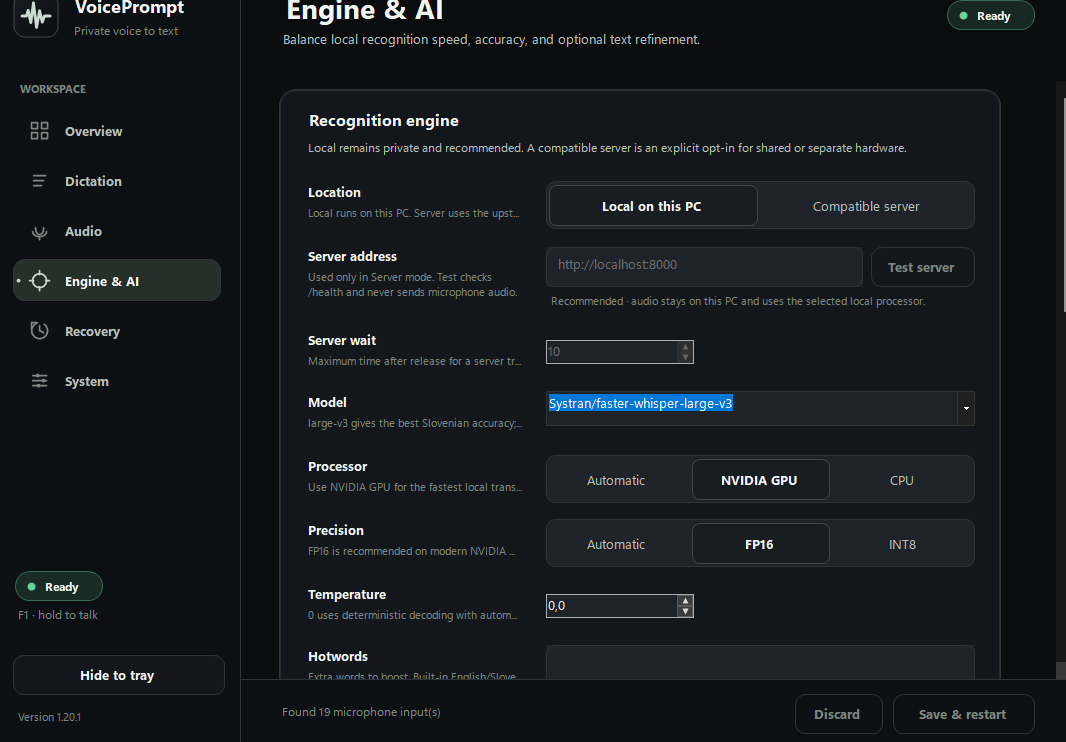
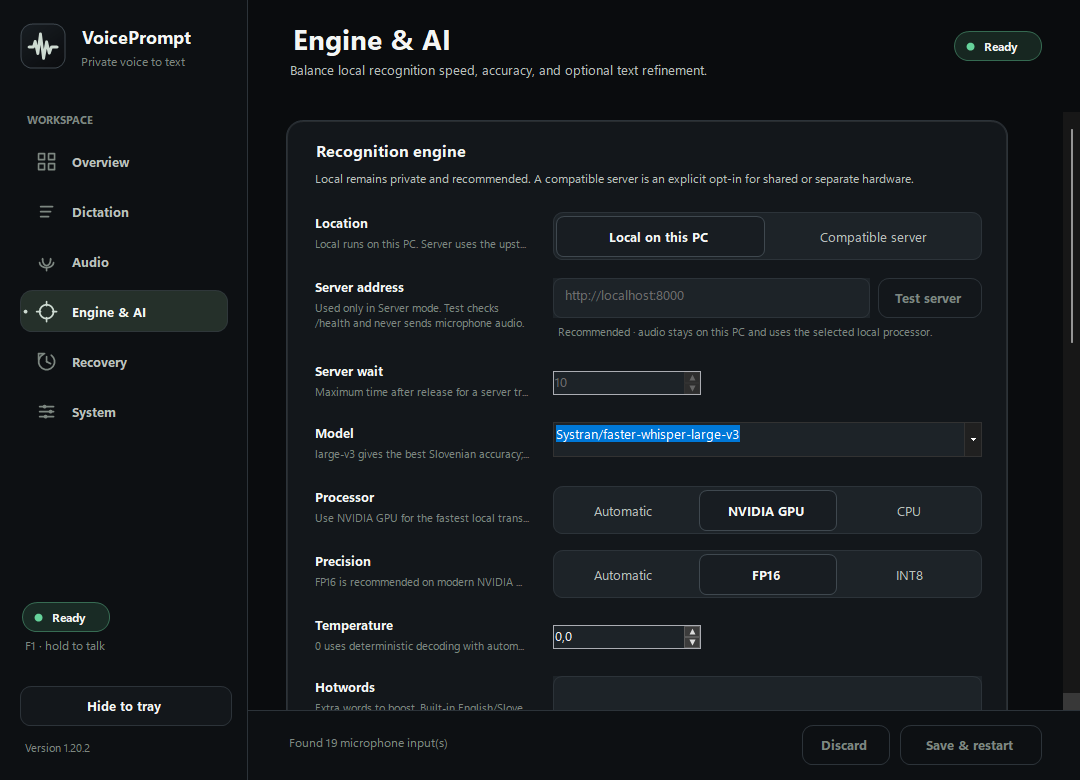
fix(auto): recover short English routing
Combine bilingual language probabilities with decoder and recent-language evidence for ambiguous short clips without adding work to normal speech.

Refresh the compact overlay, release metadata, and Pages screenshots.

diff --git a/docs/index.html b/docs/index.html
@@ -24,7 +24,7 @@
     "applicationCategory": "UtilitiesApplication",
     "operatingSystem": "Windows 11",
     "description": "Private, GPU-accelerated voice-to-text dictation for Windows with 100 supported Whisper languages.",
-    "downloadUrl": "https://senkokg.github.io/VoicePrompt/downloads/VoicePrompt-v1.20.1-windows-x64.zip",
+    "downloadUrl": "https://senkokg.github.io/VoicePrompt/downloads/VoicePrompt-v1.20.2-windows-x64.zip",
     "softwareRequirements": "Windows 11, Python 3.11 or newer, NVIDIA GPU",
     "featureList": "100 Whisper languages, English and Slovenian Auto, global push-to-talk hotkeys, long-recording buffering, local transcript recovery, reusable snippets, application profiles, optional AI text cleanup",
     "license": "https://opensource.org/license/mit"
@@ -51,7 +51,7 @@
         <a href="#features">Features</a>
         <a href="#privacy">Privacy</a>
         <a href="https://github.com/seNkoKG/VoicePrompt" target="_blank" rel="noreferrer">GitHub <span aria-hidden="true">↗</span></a>
-        <a class="button button-small button-light" href="downloads/VoicePrompt-v1.20.1-windows-x64.zip" download>Download</a>
+        <a class="button button-small button-light" href="downloads/VoicePrompt-v1.20.2-windows-x64.zip" download>Download</a>
       </div>
     </nav>
   </header>
@@ -63,7 +63,7 @@
         <h1>Speak naturally.<br><span>Type anywhere.</span></h1>
         <p class="hero-lede">Hold one key, say what you mean, and release. VoicePrompt recognizes any of Whisper's 100 languages and puts the result inside the app you are already using.</p>
         <div class="hero-actions">
-          <a class="button button-primary" href="downloads/VoicePrompt-v1.20.1-windows-x64.zip" download>
+          <a class="button button-primary" href="downloads/VoicePrompt-v1.20.2-windows-x64.zip" download>
             <svg aria-hidden="true" viewBox="0 0 20 20"><path d="M10 2v10m0 0 4-4m-4 4L6 8M3 15.5h14"/></svg>
             Download for Windows
           </a>
@@ -82,11 +82,11 @@
             <span class="window-actions"><i>—</i><i>□</i><i>×</i></span>
           </div>
           <div class="window-canvas">
-            <img src="assets/app-overview.png" alt="VoicePrompt Overview showing runtime status, hotkey, language, microphone, and recognition setup" width="1066" height="742">
+            <img src="assets/app-overview.png" alt="VoicePrompt Overview showing runtime status, hotkey, language, microphone, and recognition setup" width="1080" height="780">
           </div>
         </div>
         <div class="recording-preview">
-          <img src="assets/recording-overlay.png" alt="The actual compact VoicePrompt microphone and waveform overlay" width="184" height="44">
+          <img src="assets/recording-overlay.png" alt="The actual compact VoicePrompt microphone and waveform overlay" width="176" height="44">
           <span>Actual hotkey overlay</span>
         </div>
       </div>
@@ -215,7 +215,7 @@
               <span class="window-title"><img src="assets/mark.svg" alt="" width="18" height="18"> VoicePrompt</span>
               <span class="window-actions"><i>—</i><i>□</i><i>×</i></span>
             </div>
-            <img src="assets/app-overview.png" alt="VoicePrompt Overview with readiness and setup cards" width="1066" height="742" data-interface-image>
+            <img src="assets/app-overview.png" alt="VoicePrompt Overview with readiness and setup cards" width="1080" height="780" data-interface-image>
           </div>
         </div>
         <div class="interface-caption" aria-live="polite">
@@ -294,7 +294,7 @@
       <h2>Your next sentence is faster out loud.</h2>
       <p>Download VoicePrompt, choose from 100 languages, and keep your hands on the work that matters.</p>
       <div class="hero-actions centered">
-        <a class="button button-primary" href="downloads/VoicePrompt-v1.20.1-windows-x64.zip" download>Download latest release</a>
+        <a class="button button-primary" href="downloads/VoicePrompt-v1.20.2-windows-x64.zip" download>Download latest release</a>
         <a class="button button-ghost" href="https://github.com/seNkoKG/VoicePrompt">Star on GitHub <span aria-hidden="true">↗</span></a>
       </div>
     </section>
@@ -307,7 +307,7 @@
         <p>Local-first voice typing in 100 languages.</p>
       </div>
       <div class="footer-links">
-        <a href="downloads/VoicePrompt-v1.20.1-windows-x64.zip" download>Download</a>
+        <a href="downloads/VoicePrompt-v1.20.2-windows-x64.zip" download>Download</a>
         <a href="https://github.com/seNkoKG/VoicePrompt">Source</a>
         <a href="https://github.com/seNkoKG/VoicePrompt/issues">Issues</a>
         <a href="https://github.com/seNkoKG/VoicePrompt/blob/main/README.md">Documentation</a>

diff --git a/scripts/slang_retry.py b/scripts/slang_retry.py
@@ -9,6 +9,13 @@ from typing import Any
 
 _UNSUPPORTED_LANGUAGE_MAX_LOSS = 0.05
 _RECENT_LANGUAGE_SWITCH_RATIO = 1.5
+_SUPPORTED_RETRY_MAX_SECONDS = 5.0
+_SUPPORTED_RETRY_MAX_CONFIDENCE = 0.70
+_SUPPORTED_RETRY_RATIO = 0.60
+_RECENT_SUPPORTED_RETRY_RATIO = 0.45
+_LANGUAGE_EVIDENCE_WEIGHT = 0.35
+_RECENT_LANGUAGE_BONUS = 0.08
+_SUPPORTED_RETRY_MIN_GAIN = 0.02
 _AUTO_MODES = {"", "auto", "sl-slang"}
 _SUPPORTED_LANGUAGES = {"en", "sl"}
 
@@ -44,17 +51,32 @@ def bilingual_retry_language(
     primary_score: float = float("-inf"),
     language_probabilities: Iterable[tuple[str, float]] | None = None,
     recent_language: str | None = None,
+    audio_seconds: float = float("inf"),
 ) -> str | None:
     """Choose an English/Slovenian retry for ambiguous Auto-mode speech."""
     if configured not in _AUTO_MODES:
         return None
+
+    probabilities = dict(language_probabilities or ())
     if detected in _SUPPORTED_LANGUAGES:
+        if audio_seconds > _SUPPORTED_RETRY_MAX_SECONDS:
+            return None
+        detected_probability = probabilities.get(detected, confidence)
+        if detected_probability >= _SUPPORTED_RETRY_MAX_CONFIDENCE:
+            return None
+        other_language = "sl" if detected == "en" else "en"
+        other_probability = probabilities.get(other_language, 0.0)
+        ratio = (
+            _RECENT_SUPPORTED_RETRY_RATIO
+            if recent_language == other_language
+            else _SUPPORTED_RETRY_RATIO
+        )
+        if detected_probability > 0 and other_probability >= detected_probability * ratio:
+            return other_language
         return None
 
-    # VoicePrompt Auto is intentionally bilingual. This mirrors established
-    # dictation apps that constrain automatic detection to the languages the
-    # user actually speaks instead of accepting an unrelated 99-language guess.
-    probabilities = dict(language_probabilities or ())
+    # VoicePrompt Auto is intentionally bilingual. Constrain unrelated
+    # 100-language guesses to the two languages selected by the default profile.
     if recent_language in _SUPPORTED_LANGUAGES:
         other_language = "sl" if recent_language == "en" else "en"
         recent_probability = probabilities.get(recent_language, 0.0)
@@ -153,14 +175,33 @@ def prefer_bilingual_retry(
     detected: str,
     original_segments: Iterable[Any],
     retry_segments: Iterable[Any],
+    language_probabilities: Iterable[tuple[str, float]] | None = None,
+    recent_language: str | None = None,
 ) -> bool:
-    """Choose a supported-language retry for an unrelated Auto guess."""
+    """Choose the bilingual candidate with the stronger combined evidence."""
     original_score = transcript_score(original_segments)
     retry_score = transcript_score(retry_segments)
     if not math.isfinite(retry_score):
         return False
     if detected in _SUPPORTED_LANGUAGES:
-        return False
+        if retry_language not in _SUPPORTED_LANGUAGES or retry_language == detected:
+            return False
+        probabilities = dict(language_probabilities or ())
+        detected_probability = probabilities.get(detected, 0.0)
+        retry_probability = probabilities.get(retry_language, 0.0)
+        if detected_probability <= 0 or retry_probability <= 0:
+            return False
+        if not math.isfinite(original_score):
+            return True
+        original_evidence = original_score + _LANGUAGE_EVIDENCE_WEIGHT * math.log(
+            detected_probability
+        )
+        retry_evidence = retry_score + _LANGUAGE_EVIDENCE_WEIGHT * math.log(
+            retry_probability
+        )
+        if recent_language == retry_language:
+            retry_evidence += _RECENT_LANGUAGE_BONUS
+        return retry_evidence >= original_evidence + _SUPPORTED_RETRY_MIN_GAIN
     if not math.isfinite(original_score):
         return True
     return retry_score >= original_score - _UNSUPPORTED_LANGUAGE_MAX_LOSS

diff --git a/tests/test_slang_retry.py b/tests/test_slang_retry.py
@@ -42,13 +42,44 @@ class SlangRetryTests(unittest.TestCase):
         self.assertFalse(should_retry_as_slovenian("", "sl", 0.20, -0.90))
         self.assertIsNone(bilingual_retry_language("", "sl", 0.75, -0.90))
 
-    def test_supported_language_never_retries_as_the_other_language(self) -> None:
-        for detected in ("en", "sl"):
-            with self.subTest(detected=detected):
-                self.assertIsNone(
-                    bilingual_retry_language("auto", detected, 0.01, -1.50)
-                )
+    def test_ambiguous_short_supported_language_tests_the_other_candidate(self) -> None:
+        probabilities = [("sl", 0.48), ("en", 0.34)]
+        self.assertEqual(
+            bilingual_retry_language(
+                "auto", "sl", 0.48, -0.55, probabilities, "en", 2.9
+            ),
+            "en",
+        )
+        self.assertEqual(
+            bilingual_retry_language(
+                "auto", "en", 0.48, -0.55,
+                [("en", 0.48), ("sl", 0.34)], "sl", 2.9,
+            ),
+            "sl",
+        )
+
+    def test_clear_or_long_supported_language_stays_single_pass(self) -> None:
+        probabilities = [("sl", 0.82), ("en", 0.12)]
+        self.assertIsNone(
+            bilingual_retry_language(
+                "auto", "sl", 0.82, -0.4, probabilities, "en", 2.9
+            )
+        )
+        self.assertIsNone(
+            bilingual_retry_language(
+                "auto", "sl", 0.48, -0.4,
+                [("sl", 0.48), ("en", 0.34)], "en", 8.0,
+            )
+        )
         self.assertFalse(should_retry_as_slovenian("", "en", 0.01, -1.50))
+
+    def test_short_slovenian_with_clear_pairwise_evidence_does_not_retry(self) -> None:
+        self.assertIsNone(
+            bilingual_retry_language(
+                "auto", "sl", 0.36, -0.66,
+                [("sl", 0.36), ("en", 0.10)], "en", 4.2,
+            )
+        )
 
     def test_auto_primary_pass_stays_language_neutral(self) -> None:
         prompt = recognition_prompt("", "Python in API.")
@@ -135,6 +166,34 @@ class SlangRetryTests(unittest.TestCase):
         translated = [Segment("Prosim, popravite to.", -0.66, [1, 2, 3, 4])]
         english = [Segment("Please fix this.", -0.40, [1, 2, 3, 4])]
         self.assertFalse(prefer_bilingual_retry("en", "sl", translated, english))
+
+    def test_short_english_mislabeled_slovenian_uses_combined_evidence(self) -> None:
+        wrong_slovenian = [Segment("Ampak verzija ni?", -0.55, [1, 2, 3, 4])]
+        english = [Segment("But the version is not?", -0.30, [1, 2, 3, 4, 5])]
+        self.assertTrue(
+            prefer_bilingual_retry(
+                "en",
+                "sl",
+                wrong_slovenian,
+                english,
+                [("sl", 0.48), ("en", 0.34)],
+                "en",
+            )
+        )
+
+    def test_real_short_slovenian_resists_english_translation(self) -> None:
+        slovenian = [Segment("Prosim, popravi to.", -0.66, [1, 2, 3, 4])]
+        english = [Segment("Please fix this.", -0.40, [1, 2, 3, 4])]
+        self.assertFalse(
+            prefer_bilingual_retry(
+                "en",
+                "sl",
+                slovenian,
+                english,
+                [("sl", 0.36), ("en", 0.10)],
+                "en",
+            )
+        )
 
     def test_marginal_english_retry_cannot_replace_real_slovenian(self) -> None:
         slovenian = [Segment("Prosim, popravi to.", -0.40, [1, 2, 3, 4])]

diff --git a/ui/VoicePromptTray/RecordingOverlay.cs b/ui/VoicePromptTray/RecordingOverlay.cs
@@ -32,7 +32,7 @@ internal sealed class RecordingOverlay : Form
         ShowInTaskbar = false;
         StartPosition = FormStartPosition.Manual;
         TopMost = true;
-        ClientSize = new Size(184, 44);
+        ClientSize = new Size(176, 44);
         BackColor = OverlayBackground;
         DoubleBuffered = true;
         Opacity = 0;
@@ -94,7 +94,9 @@ internal sealed class RecordingOverlay : Form
         }
 
         bool recording = meterSample.Recording && _lastSignal != 0 && now - _lastSignal < 3000;
-        _level = meterSample.Level;
+        float targetLevel = recording ? meterSample.Level : 0f;
+        float levelResponse = targetLevel > _level ? 0.46f : 0.20f;
+        _level += (targetLevel - _level) * levelResponse;
 
         if (recording && !_recording)
         {
@@ -105,11 +107,14 @@ internal sealed class RecordingOverlay : Form
         }
         _recording = recording;
 
-        float response = recording ? 0.52f : 0.24f;
-        float strength = 0.58f + 0.42f * MathF.Sqrt(_level);
+        float response = recording ? 0.48f : 0.22f;
+        float audibleLevel = Math.Clamp((_level - 0.06f) / 0.74f, 0f, 1f);
+        float strength = MathF.Sqrt(audibleLevel);
         for (int i = 0; i < _waveform.Length; i++)
         {
-            float sample = recording ? (_waveBytes[i] - 128f) / 127f * strength : 0f;
+            float sample = recording && audibleLevel > 0f
+                ? (_waveBytes[i] - 128f) / 127f * strength
+                : 0f;
             _waveform[i] += (sample - _waveform[i]) * response;
         }
 
@@ -138,6 +143,7 @@ internal sealed class RecordingOverlay : Form
     {
         var g = e.Graphics;
         g.SmoothingMode = SmoothingMode.AntiAlias;
+        g.PixelOffsetMode = PixelOffsetMode.HighQuality;
 
         using (var background = Theme.RoundedRect(new Rectangle(0, 0, Width - 1, Height - 1), 14))
         using (var fill = new SolidBrush(OverlayBackground))
@@ -168,9 +174,9 @@ internal sealed class RecordingOverlay : Form
     private void DrawWaveform(Graphics g)
     {
         const float startX = 39f;
-        const float endX = 171f;
+        const float endX = 163f;
         const float centerY = 22f;
-        const float amplitude = 13f;
+        const float amplitude = 11.5f;
 
         var points = new PointF[_waveform.Length];
         for (int i = 0; i < points.Length; i++)
@@ -188,7 +194,7 @@ internal sealed class RecordingOverlay : Form
             EndCap = LineCap.Round,
             LineJoin = LineJoin.Round,
         };
-        g.DrawCurve(line, points, 0.22f);
+        g.DrawLines(line, points);
     }
 
     protected override void Dispose(bool disposing)

diff --git a/tests/test_decoding_options.py b/tests/test_decoding_options.py
@@ -36,6 +36,9 @@ class DecodingOptionsTests(unittest.TestCase):
         self.assertIn("bilingual_retry_prompt(retry_language, self._base_prompt)", patch)
         self.assertNotIn("bilingual_retry_prompt(retry_language, self._prompt)", patch)
         self.assertIn("info.language_probability", patch)
+        self.assertIn('"Bilingual evidence: en %.2f, sl %.2f, recent=%s"', patch)
+        self.assertIn("language_probabilities=language_probabilities", patch)
+        self.assertIn("recent_language=self._recent_language", patch)
         self.assertIn("self._recent_language = None", patch)
         self.assertEqual(patch.count("self._recent_language,"), 2)
         self.assertIn("transcript_is_plausible(primary_segments, audio_seconds)", patch)

diff --git a/scripts/ai_rewriter.py b/scripts/ai_rewriter.py
@@ -120,7 +120,7 @@ class AiRewriter:
     def __init__(self, config_path: str | Path | None = None):
         self.settings = _load_settings(Path(config_path) if config_path else _default_config_path())
         self.session = requests.Session()
-        self.session.headers.update({"User-Agent": "VoicePrompt/1.20.1"})
+        self.session.headers.update({"User-Agent": "VoicePrompt/1.20.2"})
         self._lock = threading.Lock()
         self.last_error = ""
         self.last_latency_ms = 0

diff --git a/CHANGELOG.md b/CHANGELOG.md
@@ -1,5 +1,19 @@
 # Changelog
 
+## [1.20.2] - 2026-08-13
+
+### Changed
+
+- Make the compact recording overlay narrower and scale the waveform from a real noise floor, removing the large idle trace while keeping immediate microphone feedback.
+- Record privacy-safe English, Slovenian, and recent-language probability evidence for future Auto-routing diagnostics.
+
+### Fixed
+
+- Test a second bilingual candidate when a short English or Slovenian recording has a low-confidence, closely matched language guess instead of trusting the first supported label unconditionally.
+- Select between ambiguous English and Slovenian candidates with combined language-token, decoder, and recent-language evidence, recovering short English without translating clear Slovenian.
+- Keep normal, confident, and longer recordings on the existing single-pass path so the accuracy fix adds no routine latency or GPU work.
+- Gate clean installs and legacy upgrades on the same short-English and genuine-Slovenian routing contract shipped by the runtime patcher.
+
 ## [1.20.1] - 2026-08-12
 
 ### Fixed

diff --git a/README.md b/README.md
@@ -69,7 +69,7 @@ Measured on an RTX 5080:
 
 Requirements: **64-bit Windows 11**, **Python 3.11+**, an **NVIDIA GPU with a current driver**, and roughly **10 GB of free disk space** for the runtime and model.
 
-1. Open the [latest VoicePrompt release](https://github.com/seNkoKG/VoicePrompt/releases/latest) and download `VoicePrompt-v1.20.1-windows-x64.zip`.
+1. Open the [latest VoicePrompt release](https://github.com/seNkoKG/VoicePrompt/releases/latest) and download `VoicePrompt-v1.20.2-windows-x64.zip`.
 2. Extract the ZIP, open PowerShell in that folder, and run:
 
 ```powershell
